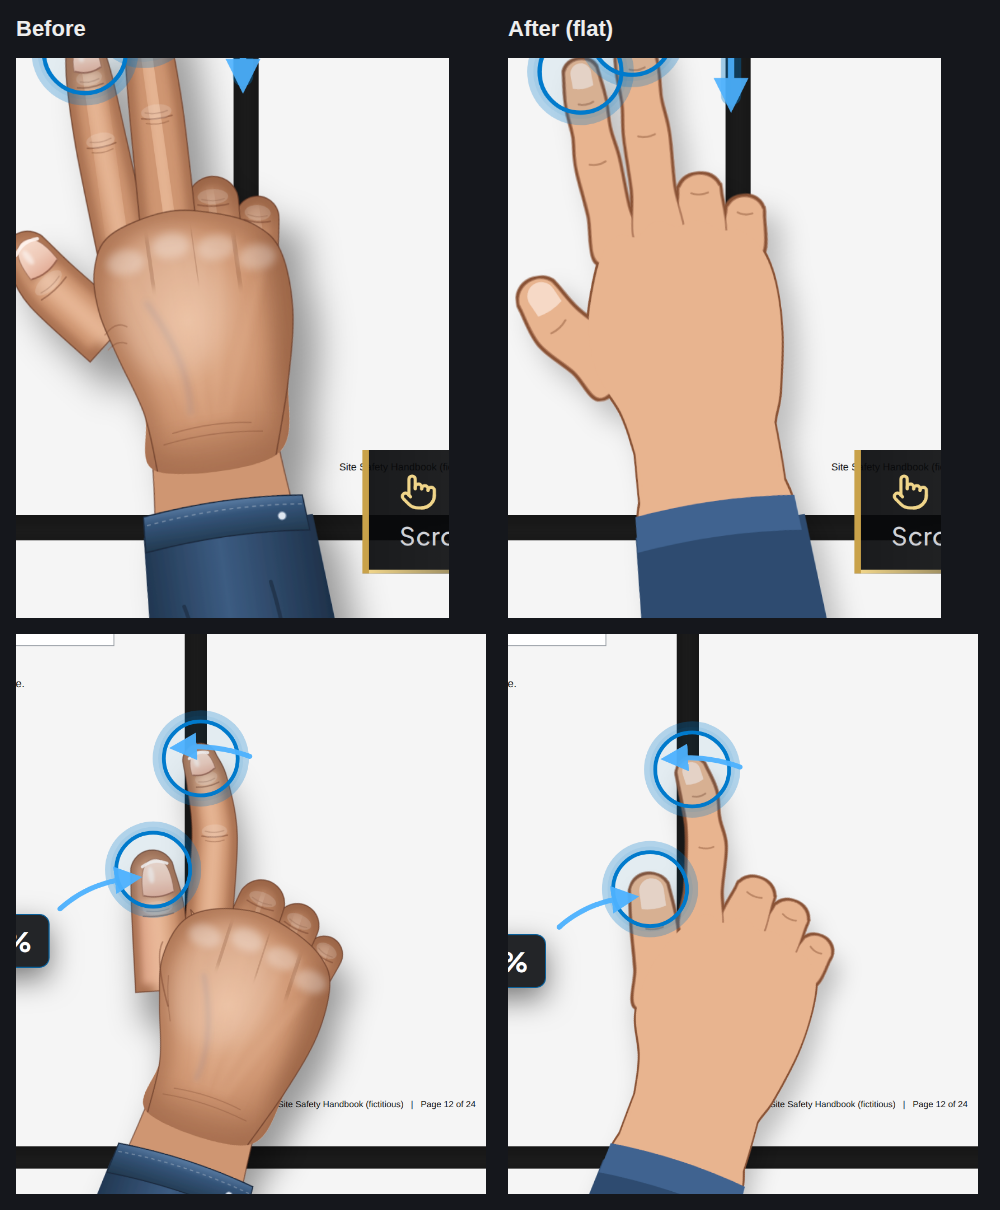
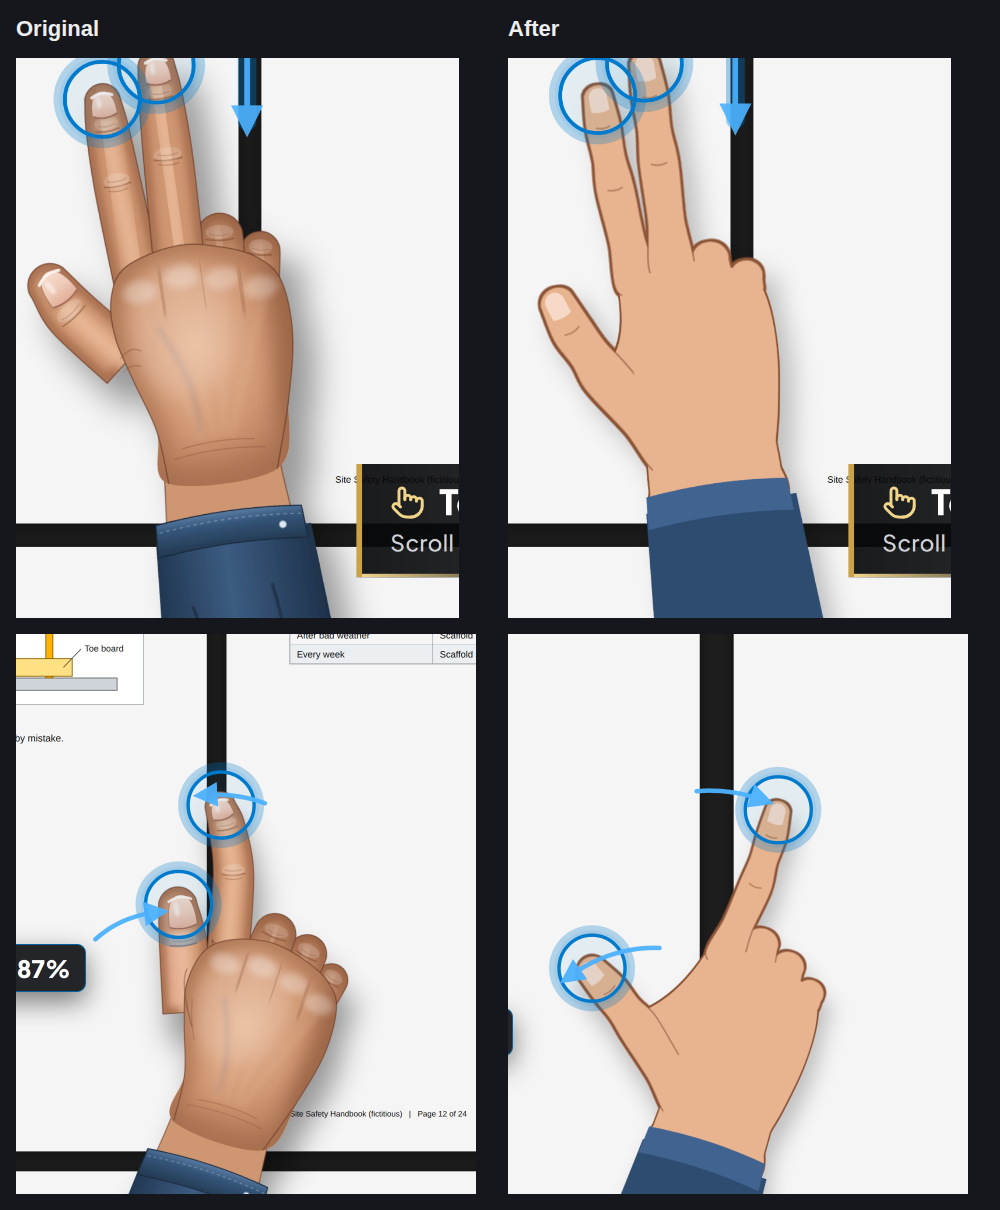
Fix gesture hand anatomy so it reads as a hand, not a foot
Fingers now as long as the back of the hand, the back of the hand
narrows into a shorter wrist, the thumb leaves the side near the wrist
and angles away with a web of skin to the index finger, and the curled
fingers are small knuckles stepping down toward the little finger.

Claude-Session: https://claude.ai/code/session_01EtiQXiwfkxJroCBURUY9KN

Changed region(s): [[0.0, 0.0, 0.992, 1.0], [0.496, 0.0, 0.961, 0.5198], [0.0, 0.5198, 0.124, 0.6116]]

diff --git a/SAVEstimate-Part-4-Reading-and-Review.html b/SAVEstimate-Part-4-Reading-and-Review.html
@@ -4011,8 +4011,8 @@ function mkWrist(parent) {
 /** Flat cuff and sleeve, drawn over the bottom of the wrist. */
 function mkSleeve(parent) {
   const g = sv('g', {}, parent);
-  sv('path', { d: 'M-64 62 C-68 120 -74 200 -80 320 L86 320 C80 200 74 120 70 62 Z', fill: SKIN.sleeve }, g);
-  sv('path', { d: 'M-62 46 Q2 38 64 46 L66 74 Q2 66 -64 74 Z', fill: SKIN.cuff }, g);
+  sv('path', { d: 'M-62 36 C-66 100 -72 180 -80 320 L86 320 C80 180 72 100 68 36 Z', fill: SKIN.sleeve }, g);
+  sv('path', { d: 'M-60 22 Q2 14 62 22 L64 50 Q2 42 -62 50 Z', fill: SKIN.cuff }, g);
   return g;
 }
 
@@ -4037,29 +4037,60 @@ function handShell(host) {
   return { el, svg, defs, root, skin };
 }
 
+/**
+ * Back of the hand, shared by both hands. Wrist centre (0, 0), fingers up. It is about as wide at the knuckles (~130) as the
+ * fingers are long, narrows to the wrist (~104), and its left edge runs straight up the index side: the thumb and the web
+ * between thumb and index are separate shapes, so the hand gets the deep thumb notch a foot does not have.
+ */
+const PALM = [[-50, 40], [-51, 0], [-53, -40], [-56, -90], [-58, -128], [-56, -154], [-44, -170], [-30, -168], [-14, -178], [2, -172], [20, -174], [36, -164], [50, -160], [62, -146], [68, -118], [68, -80], [62, -36], [55, 0], [54, 40]];
+
+/**
+ * Thumb with its metacarpal: it leaves the hand near the wrist and angles away from the fingers, so the hand's left edge
+ * runs wrist -> outside of the thumb -> tip -> inside of the thumb -> the web (a shallow concave curve) -> the index finger.
+ * pose(aM, aP, aD, ia): metacarpal / first / last segment angles (deg) and the index axis (for the web).
+ */
+function mkThumb(skin, defs) {
+  const web = sv('path', { fill: SKIN.base }, skin);
+  const thumb = mkLimb(skin, defs, { nail: true, nailSide: -0.5, nailW: 0.5, creases: [[2, 1]] });
+  return {
+    pose(aM, aP, aD, ia) {
+      const ax = limbAxis([-28, -8], aM, [94, 48, 42], [aP - aM, aD - aP]);
+      const c = thumb.pose(ax, [42, 39, 34, 30]);
+      // web: from the inside of the thumb's first segment to the index finger's left side, bowed toward the wrist
+      const m = ax.pts[1];
+      const dP = dirOf(aP);
+      const a = [m[0] + dP[0] * 10 - dP[1] * 17, m[1] + dP[1] * 10 + dP[0] * 17];
+      const dI = dirOf(ia.angs[0]);
+      const b = [ia.pts[0][0] + dI[0] * 18 + dI[1] * 16, ia.pts[0][1] + dI[1] * 18 - dI[0] * 16];
+      const ctrl = [(a[0] + b[0]) / 2 + 10, (a[1] + b[1]) / 2 + 14];
+      A(web, 'd', `M${r2(a[0])} ${r2(a[1])} Q${r2(ctrl[0])} ${r2(ctrl[1])} ${r2(b[0])} ${r2(b[1])} L-30 -150 L-30 -10 Z`);
+      return c;
+    },
+  };
+}
+
 // ------------------------------------------------------------------------------------------------- two-finger hand
 /**
  * Right hand seen from the back, index and middle finger extended together (two-finger drag), ring and little finger curled
- * under, thumb relaxed out to the side. Local frame: wrist centre at (0, 0), fingers point up. Returns { el, svg, tips }.
+ * under (only their knuckles show, stepping down toward the little finger), thumb relaxed out to the side.
+ * Local frame: wrist centre at (0, 0), fingers point up. Returns { el, svg, tips }.
  */
 function mkTwoFingerHand(host) {
   const { el, svg, defs, root, skin } = handShell(host);
   mkWrist(skin);
-  const thumb = mkLimb(skin, defs, { nail: true, nailSide: 0.55, nailW: 0.58, creases: [[1, 2]] });
-  const little = mkLimb(skin, defs, { stub: true, creases: [[1, 2]] });
-  const ring = mkLimb(skin, defs, { stub: true, creases: [[1, 2]] });
-  const index = mkLimb(skin, defs, { nail: true, creases: [[1, 3], [2, 2]] });
-  const middle = mkLimb(skin, defs, { nail: true, creases: [[1, 3], [2, 2]] });
-  // thumb from the thenar pad, angled out; its root disappears under the back of the hand
-  thumb.pose(limbAxis([-58, -66], -44, [62, 44], [18]), [46, 38, 33]);
-  // curled fingers: the first segment points at the screen, so it is short (foreshortened) and ends in the bent middle joint
-  ring.pose(limbAxis([20, -160], 5, [56], []), [34, 33]);
-  little.pose(limbAxis([50, -148], 12, [46], []), [30, 29]);
-  const ia = limbAxis([-46, -158], -5, [76, 48, 36], [2, 1]);
-  const ma = limbAxis([-13, -166], 1, [84, 53, 39], [-1, -1]);
-  const ti = index.pose(ia, [35, 32, 29, 26]);
-  const tm = middle.pose(ma, [36, 33, 30, 27]);
-  mkPalm(skin, defs, [[-52, 64], [-53, 20], [-56, -10], [-62, -38], [-76, -70], [-78, -104], [-70, -136], [-58, -164], [-44, -175], [-30, -172], [-14, -182], [2, -176], [20, -178], [36, -168], [50, -166], [64, -152], [72, -124], [72, -84], [64, -36], [56, -10], [55, 20], [54, 64]]);
+  const thumb = mkThumb(skin, defs);
+  const little = mkLimb(skin, defs, { stub: true });
+  const ring = mkLimb(skin, defs, { stub: true });
+  const index = mkLimb(skin, defs, { nail: true, creases: [[1, 1], [2, 1]] });
+  const middle = mkLimb(skin, defs, { nail: true, creases: [[1, 1], [2, 1]] });
+  ring.pose(limbAxis([20, -156], 10, [34], []), [33, 32]);
+  little.pose(limbAxis([48, -144], 20, [26], []), [29, 28]);
+  const ia = limbAxis([-42, -156], -5, [88, 54, 38], [2, 1]);
+  const ma = limbAxis([-11, -164], 1, [96, 58, 40], [-1, -1]);
+  const ti = index.pose(ia, [34, 31, 28, 25]);
+  const tm = middle.pose(ma, [35, 32, 29, 26]);
+  thumb.pose(-34, -28, -20, ia);
+  mkPalm(skin, defs, PALM);
   mkSleeve(root);
   // touch points: the finger pads, just behind the rounded tips
   const tips = [ti, tm].map((c) => [c.cap[0], c.cap[1] - 2]);
@@ -4068,23 +4099,22 @@ function mkTwoFingerHand(host) {
 
 // ------------------------------------------------------------------------------------------------- pinch hand (thumb + index)
 /**
- * Right hand, back three-quarter view: thumb and index make the pinch, middle / ring / little finger curled. pose(s): s = 0
- * gives the starting spread, s = 1 the open spread; the tips are returned so the touch discs (and the zoom) follow them.
+ * Right hand from the back: thumb and index make the pinch, middle / ring / little finger curled. pose(s): s = 0 gives the
+ * starting spread (thumb turned in toward the index), s = 1 the open spread (thumb swung out); the tips are returned so the
+ * touch discs (and the zoom) follow them.
  */
 function mkPinchHand(host) {
   const { el, svg, defs, root, skin } = handShell(host);
   mkWrist(skin);
-  const little = mkLimb(skin, defs, { stub: true, creases: [[1, 2]] });
-  const ring = mkLimb(skin, defs, { stub: true, creases: [[1, 2]] });
-  const middle = mkLimb(skin, defs, { stub: true, creases: [[1, 2]] });
-  const index = mkLimb(skin, defs, { nail: true, creases: [[1, 3], [2, 2]] });
-  // the web of skin between thumb and index and the thumb itself; their roots disappear under the back of the hand
-  const web = sv('path', { fill: SKIN.base }, skin);
-  const thumb = mkLimb(skin, defs, { nail: true, nailSide: 0.45, nailW: 0.58, creases: [[1, 2]] });
-  mkPalm(skin, defs, [[-52, 64], [-53, 20], [-56, -10], [-62, -38], [-76, -70], [-78, -104], [-70, -136], [-56, -164], [-42, -175], [-28, -172], [-11, -182], [5, -176], [22, -178], [38, -168], [52, -166], [66, -152], [72, -124], [72, -84], [64, -36], [56, -10], [55, 20], [54, 64]]);
-  middle.pose(limbAxis([-11, -166], 4, [56], []), [36, 35]);
-  ring.pose(limbAxis([22, -160], 9, [52], []), [34, 33]);
-  little.pose(limbAxis([52, -148], 15, [42], []), [30, 29]);
+  const thumb = mkThumb(skin, defs);
+  const little = mkLimb(skin, defs, { stub: true });
+  const ring = mkLimb(skin, defs, { stub: true });
+  const middle = mkLimb(skin, defs, { stub: true });
+  const index = mkLimb(skin, defs, { nail: true, creases: [[1, 1], [2, 1]] });
+  middle.pose(limbAxis([-11, -164], 4, [40], []), [35, 34]);
+  ring.pose(limbAxis([20, -156], 10, [34], []), [33, 32]);
+  little.pose(limbAxis([48, -144], 20, [26], []), [29, 28]);
+  mkPalm(skin, defs, PALM);
   mkSleeve(root);
   const api = {
     el,
@@ -4093,22 +4123,9 @@ function mkPinchHand(host) {
     /** s in [0, 1]: 0 = starting spread, 1 = open. Returns the two touch points (index, thumb) in local coordinates. */
     pose(s) {
       const aI = lerp(-14, 6, s);
-      const fI = [lerp(-12, -6, s), lerp(-10, -4, s)];
-      const ia = limbAxis([-44, -158], aI, [76, 47, 35], fI);
-      const ti = index.pose(ia, [35, 32, 29, 26]);
-      const aT = lerp(-22, -58, s);
-      const ta = limbAxis([-58, -84], aT, [70, 50], [lerp(-4, -6, s)]);
-      const tt = thumb.pose(ta, [42, 38, 34]);
-      // the web between the root of the thumb and the root of the index finger, bowed toward the palm
-      const lp = (a, b, u) => [a[0] + (b[0] - a[0]) * u, a[1] + (b[1] - a[1]) * u];
-      const dT = dirOf(aT);
-      const dI = dirOf(aI);
-      const pT = lp(ta.pts[0], ta.pts[1], 0.5);
-      const pT2 = [pT[0] - dT[1] * 17, pT[1] + dT[0] * 17];
-      const pI = lp(ia.pts[0], ia.pts[1], 0.3);
-      const pI2 = [pI[0] + dI[1] * 14, pI[1] - dI[0] * 14];
-      const ctrl = [(pT2[0] + pI2[0]) / 2 + 10, (pT2[1] + pI2[1]) / 2 + 12];
-      A(web, 'd', `M${r2(ta.pts[0][0] + 10)} ${r2(ta.pts[0][1] + 6)} L${r2(pT2[0])} ${r2(pT2[1])} Q${r2(ctrl[0])} ${r2(ctrl[1])} ${r2(pI2[0])} ${r2(pI2[1])} L${r2(ia.pts[0][0] + 6)} ${r2(ia.pts[0][1] + 8)} Z`);
+      const ia = limbAxis([-42, -156], aI, [84, 52, 38], [lerp(-12, -6, s), lerp(-10, -4, s)]);
+      const ti = index.pose(ia, [34, 31, 28, 25]);
+      const tt = thumb.pose(lerp(-30, -50, s), lerp(-12, -56, s), lerp(-4, -60, s), ia);
       api.tips = [[ti.cap[0], ti.cap[1] - 2], [tt.cap[0], tt.cap[1] - 2]];
       return api.tips;
     },
